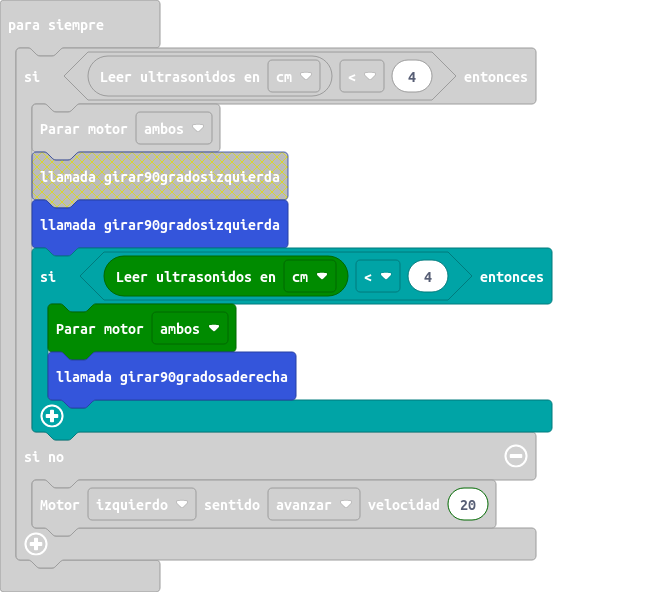
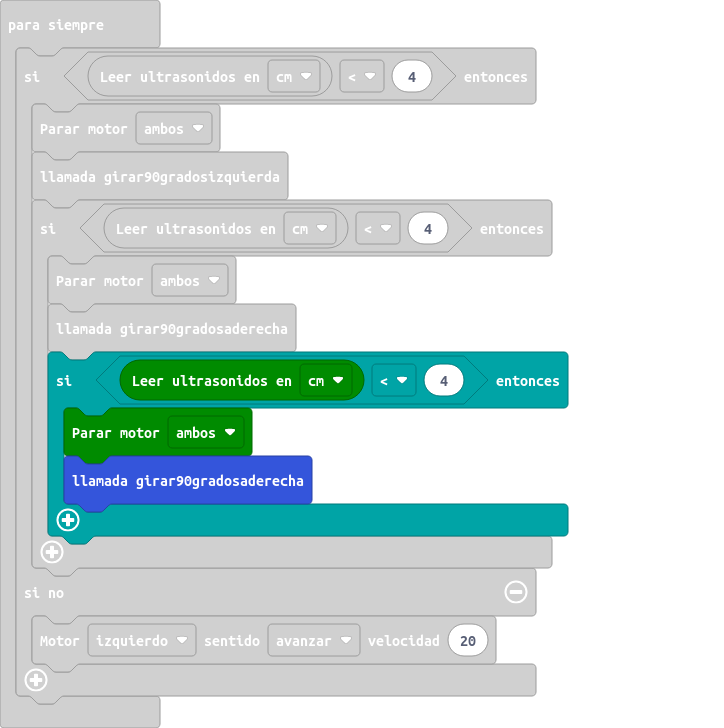
lo necesito para hacer el trabajo. gracias guapo

diff --git a/main.ts b/main.ts
@@ -22,6 +22,10 @@ basic.forever(function () {
         if (maqueen.Ultrasonic(PingUnit.Centimeters) < 4) {
             maqueen.motorStop(maqueen.Motors.All)
             girar90gradosaderecha()
+            if (maqueen.Ultrasonic(PingUnit.Centimeters) < 4) {
+                maqueen.motorStop(maqueen.Motors.All)
+                girar90gradosaderecha()
+            }
         }
     } else {
         maqueen.motorRun(maqueen.Motors.M1, maqueen.Dir.CW, 20)
